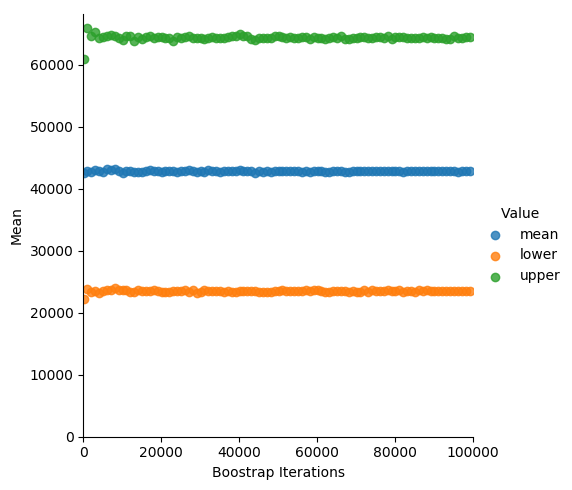
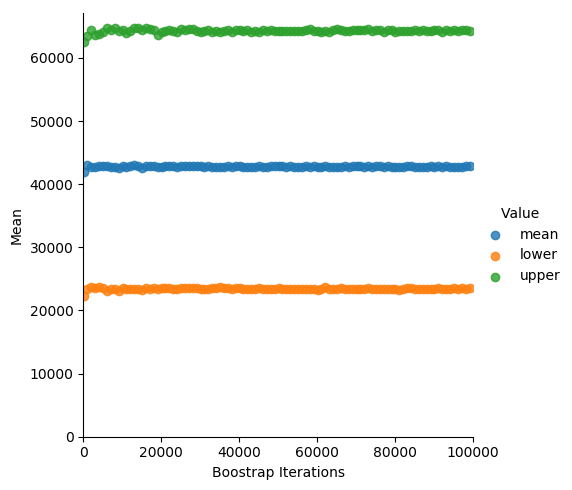
Added bootstrap to vehicles.py,to get upper and low bounds for each vehicle fleet

diff --git a/lab2/vehicles.py b/lab2/vehicles.py
@@ -5,6 +5,7 @@ import pandas as pd
 import matplotlib.pyplot as plt
 import seaborn as sns
 import numpy as np
+import bootstrap
 
 VEHICLE_FILE = "vehicles.csv"
 
@@ -33,6 +34,7 @@ if __name__ == "__main__":
     vehicle_scatter.savefig("vehiclescatter.pdf", bbox_inches='tight')
 
     data_new_fleet = df.values.T[1]
+    data_current_fleet = df.values.T[0]
 
     print((("Mean: %f") % (np.mean(data_new_fleet))))
     print((("Median: %f") % (np.median(data_new_fleet))))
@@ -49,3 +51,11 @@ if __name__ == "__main__":
 
     vehicle_histogram.savefig("vehiclehistogram.png", bbox_inches='tight')
     vehicle_histogram.savefig("vehiclehistogram.pdf", bbox_inches='tight')
+
+    mean_current_fleet = np.mean(data_current_fleet)
+    mean_new_fleet = np.mean(data_new_fleet)
+    boot_current = bootstrap.boostrap(data_current_fleet,data_current_fleet.shape[0],1000)
+    boot_new = bootstrap.boostrap(data_new_fleet, data_current_fleet.shape[0], 1000)
+
+    print("Current Fleet: Mean:{} Upper: {} : {}".format(mean_current_fleet, boot_current[1], boot_current[2]))
+    print("New Fleet: Mean:{} Upper: {} : {}".format(mean_new_fleet, boot_new[1], boot_new[2]))
